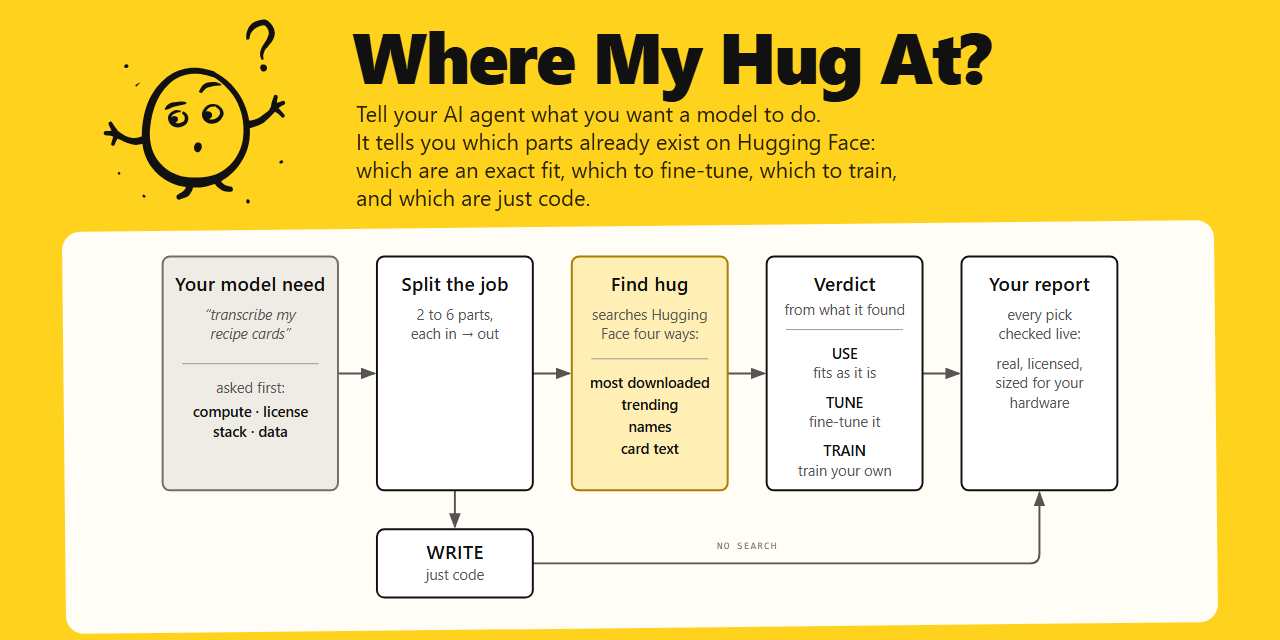
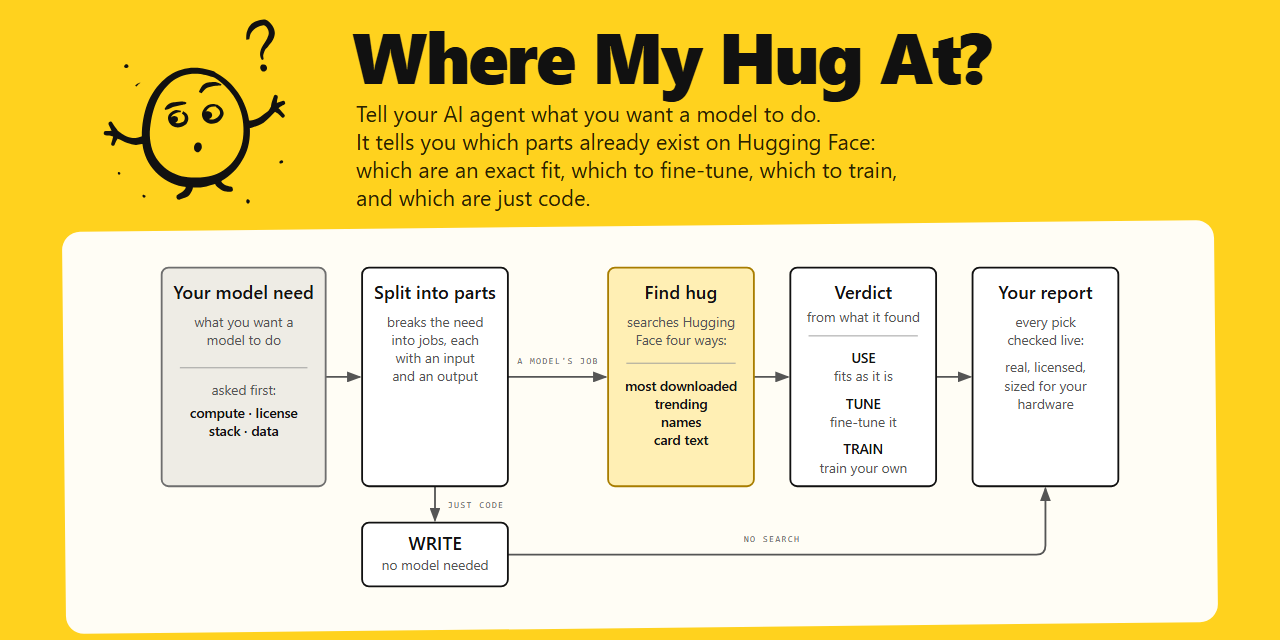
The diagram says what each step does
No worked example: each box describes its step. "Split into parts"
breaks the need into jobs, each with an input and an output, and its
two exits say where they go: a model's job to Find hug, just code to
WRITE. The social card shows the same diagram.

Changed region(s): [[0.4062, 0.375, 0.875, 0.8125], [0.125, 0.375, 0.8125, 0.9375], [0.125, 0.5625, 0.1562, 0.5938]]

diff --git a/README.md b/README.md
@@ -32,7 +32,7 @@ WebUI and any other MCP client, or as an Agent Skill.
 <p align="center">
   <picture>
     <source media="(prefers-color-scheme: dark)" srcset=".github/flow-dark.svg">
-    <img src=".github/flow.svg" width="820" alt="Your model need, with four questions (compute, license, stack, data), is split into parts. Parts that are just code are marked write and need no search. Find hug searches Hugging Face for every other part four ways: most downloaded, trending, names and card text. From what it found, each part gets its verdict: use, tune or train. Your report checks every pick live and sizes it for your hardware.">
+    <img src=".github/flow.svg" width="820" alt="Your model need, with four questions asked first (compute, license, stack, data), is split into parts: jobs with an input and an output. A part that's a model's job goes to Find hug, which searches Hugging Face four ways: most downloaded, trending, names and card text. Its verdict, use, tune or train, comes from what the search found. A part that's just code is marked write and needs no search. Your report checks every pick live and sizes it for your hardware.">
   </picture>
 </p>
 
